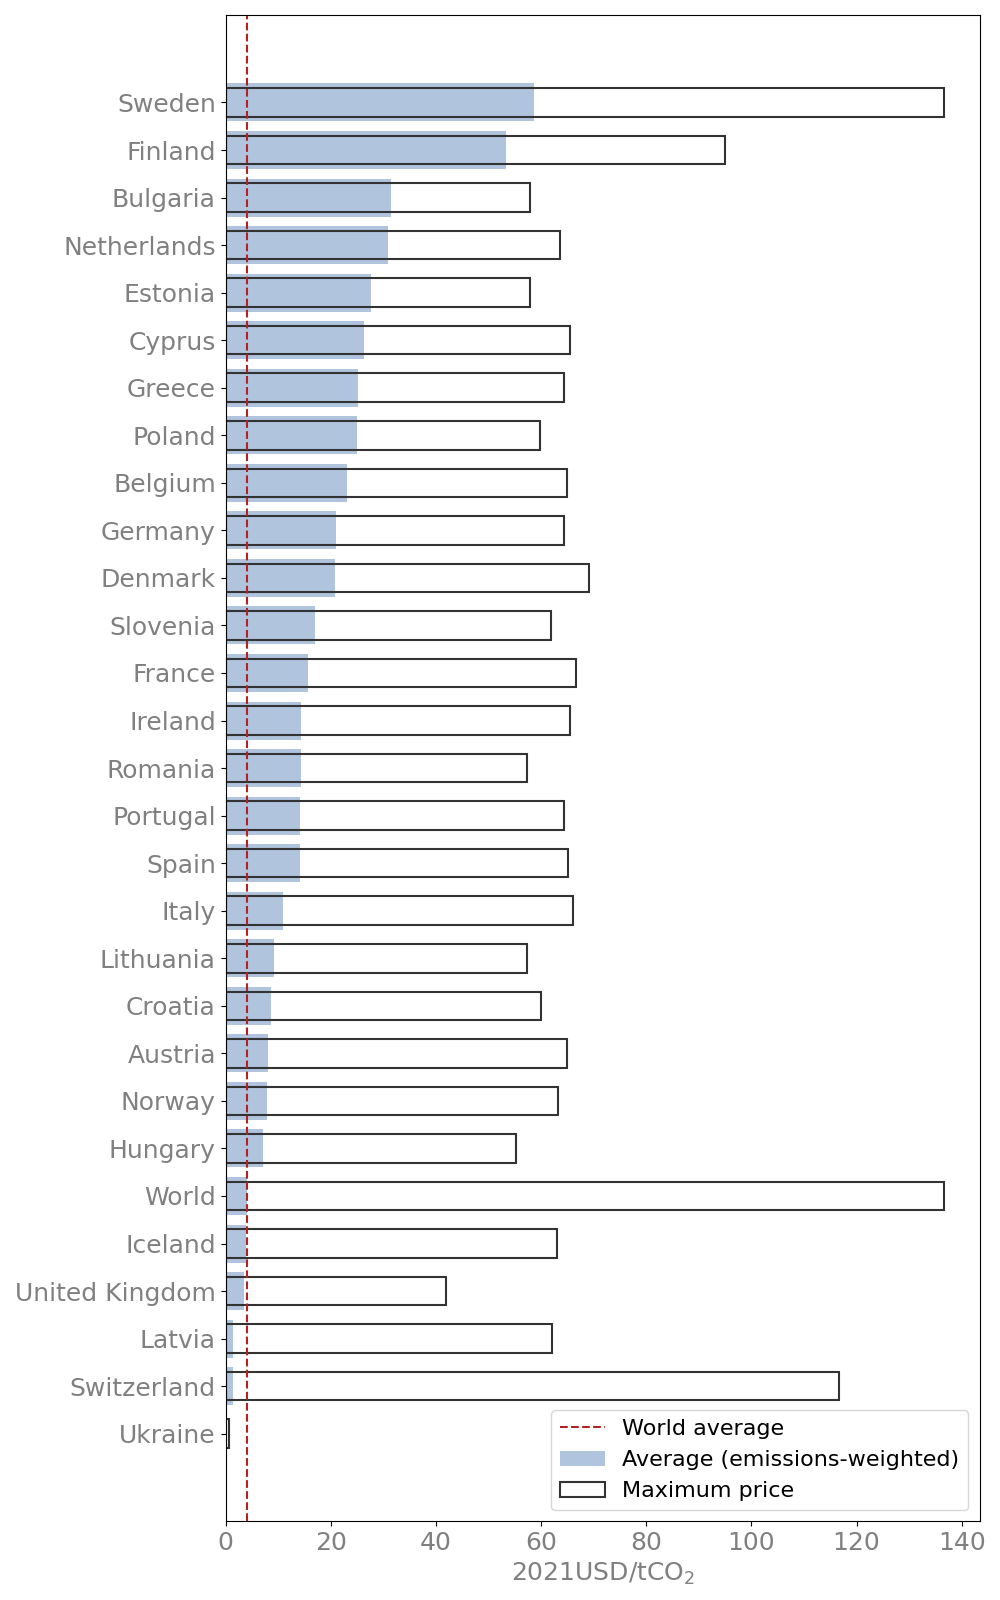
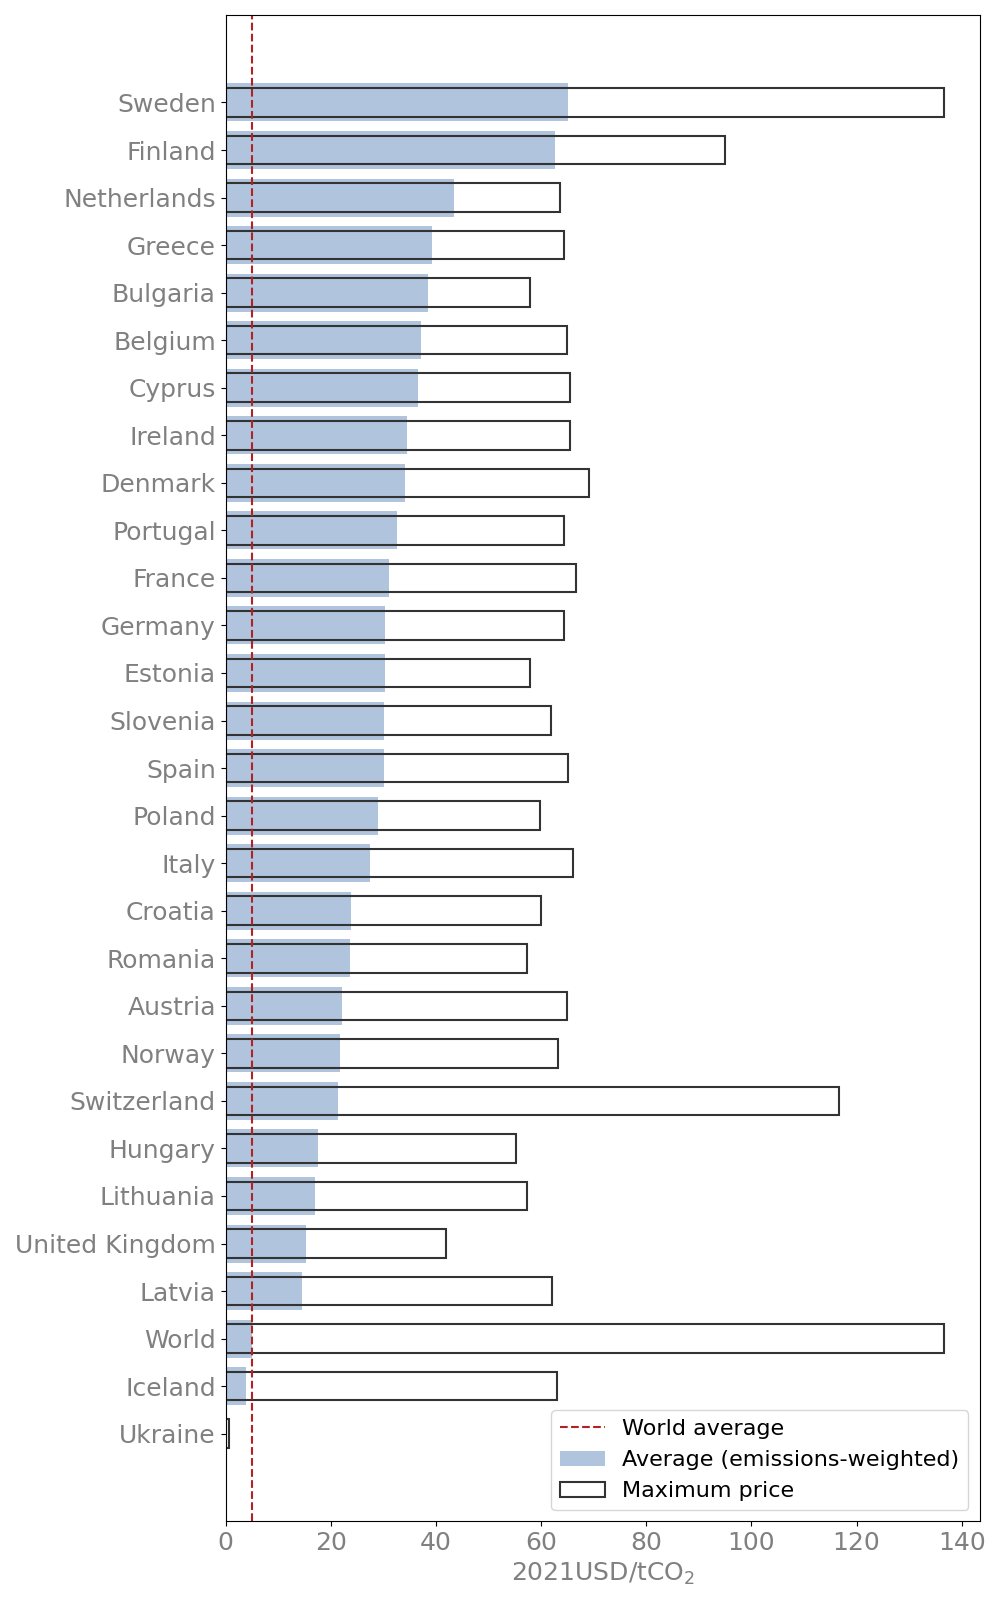
misc

diff --git a/_code/other/visualization/proc_carbonPrices.py b/_code/other/visualization/proc_carbonPrices.py
@@ -145,7 +145,7 @@ def concatenate(indir):
 #pathCoverage = r"https://raw.githubusercontent.com/g-dolphin/ECP/master/_dataset/coverage/tot_coverage_jurisdiction_CO2.csv"
 
 indir = r"/Users/gd/GitHub/ECP/_raw/wcpd_usd/CO2/constantPrices/FixedXRate/"
-pathECP = r"/Users/gd/Library/CloudStorage/OneDrive-rff/Documents/Research/projects/ecp/ecp_dataset/data/ecp/ecp_economy/ecp_vw/ecp_tv_CO2_Apr-24-2025.csv"
+pathECP = r"/Users/gd/Library/CloudStorage/OneDrive-rff/Documents/Research/projects/ecp/ecp_dataset/data/ecp/ecp_economy/ecp_vw/ecp_tv_CO2_Apr-29-2025.csv"
 pathCoverage = r"/Users/gd/Library/CloudStorage/OneDrive-rff/Documents/Research/projects/ecp/ecp_dataset/data/coverage/jurisdictions/tot_coverage_jurisdiction_CO2_Apr-24-2025.csv"
 
 prices_usd = concatenate(indir)
@@ -213,5 +213,5 @@ wld_avg = ecp.loc[(ecp.jurisdiction=="World") & (ecp.year==2024), "ecp_all_jurCO
 #ecp.to_csv(path_input+r"_ecp.csv", index = False)
 #coverage.to_csv(path_input+r"_coverage.csv", index = False)
 
-prices_usd_max.to_csv(r"/Users/gd/GitHub/ECP/_figures/dataFig/carbonPrices_usd_max_"+year+".csv", index = False)
+prices_usd_max.to_csv(r"/Users/gd/GitHub/ECP/_figures/dataFig/carbonPrices_usd_max_"+str(year)+".csv", index = False)
 #prices_economy.to_csv(path_output+r"_economy.csv", index = False)

diff --git a/_code/other/visualization/plots_carbonPrices.py b/_code/other/visualization/plots_carbonPrices.py
@@ -18,7 +18,6 @@ from pathlib import Path
 
 ## PATHS
 
-prices_economy = pd.read_csv(r"/Users/gd/Library/CloudStorage/OneDrive-rff/Documents/Research/projects/ecp/ecp_dataset/data/ecp/ecp_economy/ecp_vw/ecp_tv_CO2_Apr-24-2025.csv")
 prices_usd_max = pd.read_csv(r"/Users/gd/GitHub/ECP/_figures/dataFig/carbonPrices_usd_max_2024.csv")
 #coverage = pd.read_csv(path_input+r"/carbonPrices_coverage.csv")
 
@@ -28,7 +27,7 @@ prices_usd_max = pd.read_csv(r"/Users/gd/GitHub/ECP/_figures/dataFig/carbonPrice
 color_bars = ["lightsteelblue"]
 
 # PLOTS
-wld_avg = prices_economy.loc[(prices_economy.jurisdiction=="World") & (prices_economy.year==2024)]["ecp_all_jurCO2_usd_k"].item()
+wld_avg = prices_usd_max.loc[(prices_usd_max.jurisdiction=="World") & (prices_usd_max.year==2024)]["ecp_all_jurCO2_usd_k"].item()
 
 # Sort the data by ecp_all_jurCO2_usd_k
 sorted_data = prices_usd_max.sort_values(by="ecp_all_jurCO2_usd_k", ascending=True)

diff --git a/_code/other/sum_stats/stats.py b/_code/other/sum_stats/stats.py
@@ -14,7 +14,7 @@ git_repo_path = "/ECP"
 output_dir = ""
 
 # df_prices_econ = pd.read_csv("/Users/gd/GitHub/ECP/_dataset/ecp/ipcc/ecp_economy/ecp_CO2.csv")
-df_prices_econ = pd.read_csv(r"/Users/gd/Library/CloudStorage/OneDrive-rff/Documents/Research/projects/ecp/ecp_dataset/data/ecp/ecp_economy/ecp_vw/ecp_tv_CO2_Apr-24-2025.csv")
+df_prices_econ = pd.read_csv(r"/Users/gd/Library/CloudStorage/OneDrive-rff/Documents/Research/projects/ecp/ecp_dataset/data/ecp/ecp_economy/ecp_vw/ecp_tv_CO2_Apr-29-2025.csv")
 
 # OECD
 oecd = ["United States", "Mexico", "Japan", "Germany", "Turkey", "France",
@@ -125,7 +125,7 @@ ctryGroups = {
 
 averageCtryGroup = pd.DataFrame()
 
-for ctryGroup in ['eu27']:#ctryGroups.keys():
+for ctryGroup in ctryGroups.keys():
     
     df = tot_emissions.loc[tot_emissions.jurisdiction.isin(ctryGroups[ctryGroup]), ["jurisdiction", "year", "CO2", "all_GHG"]]
     
